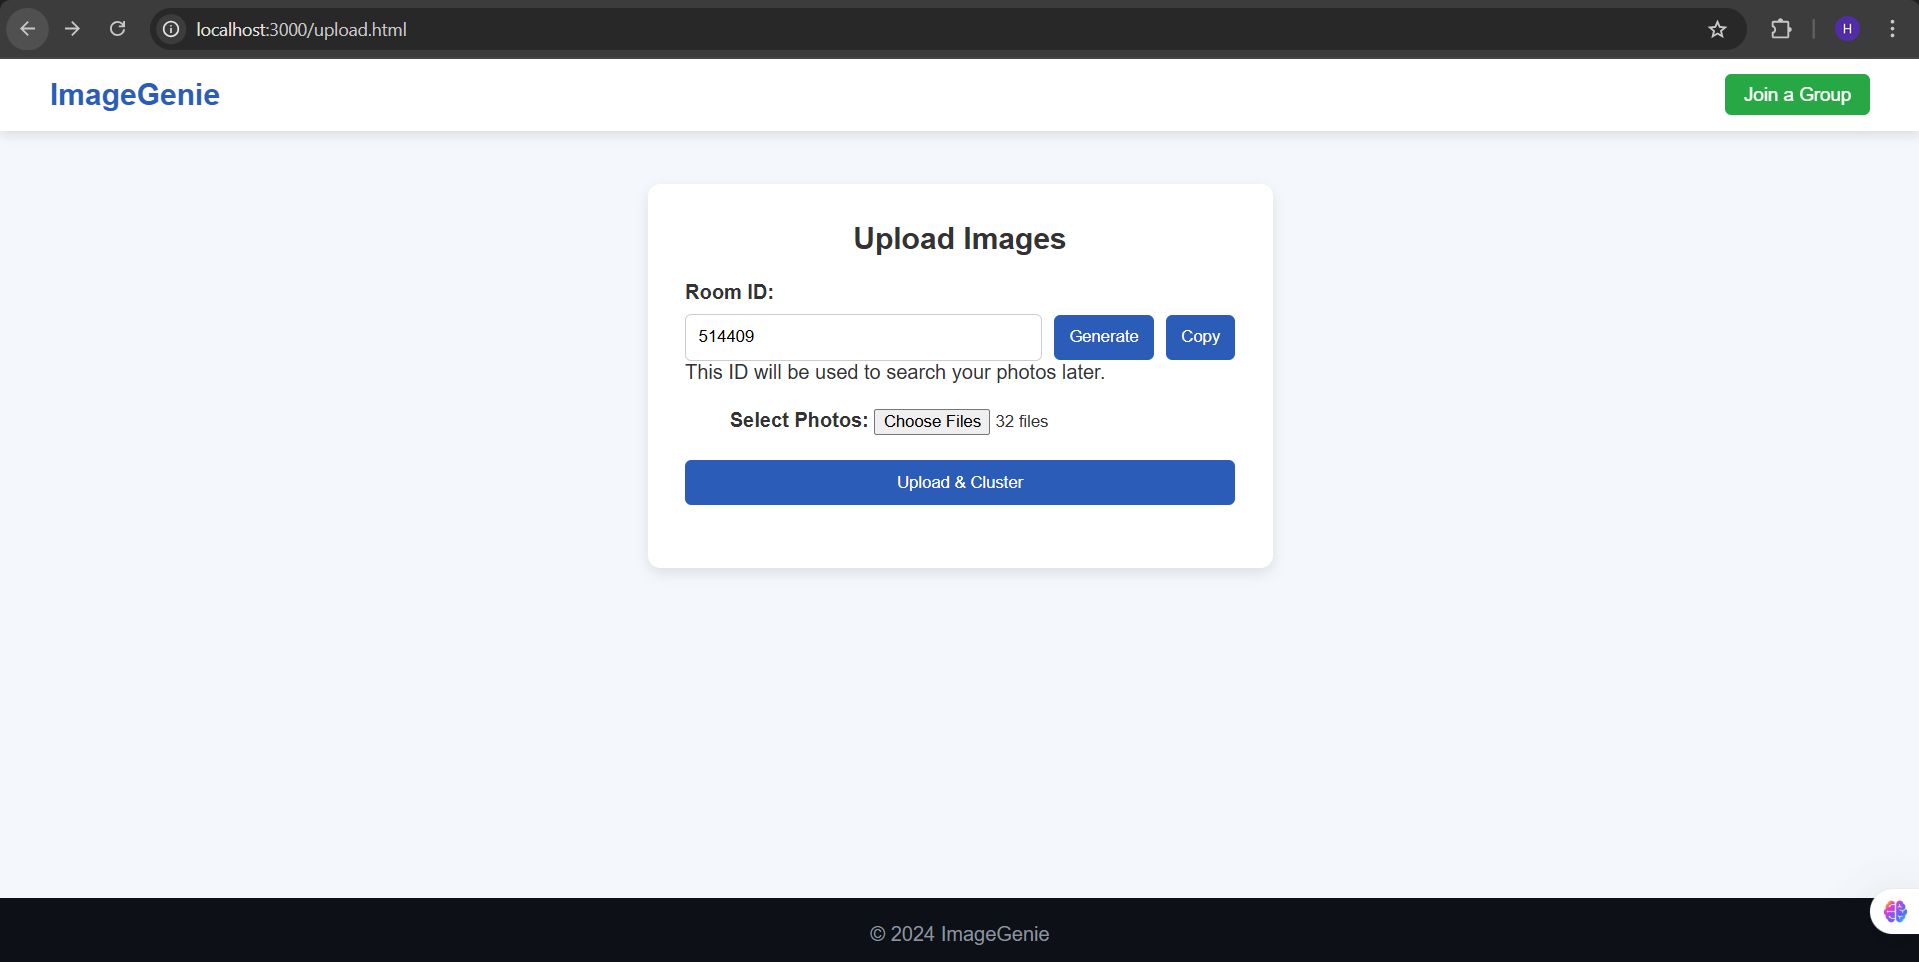
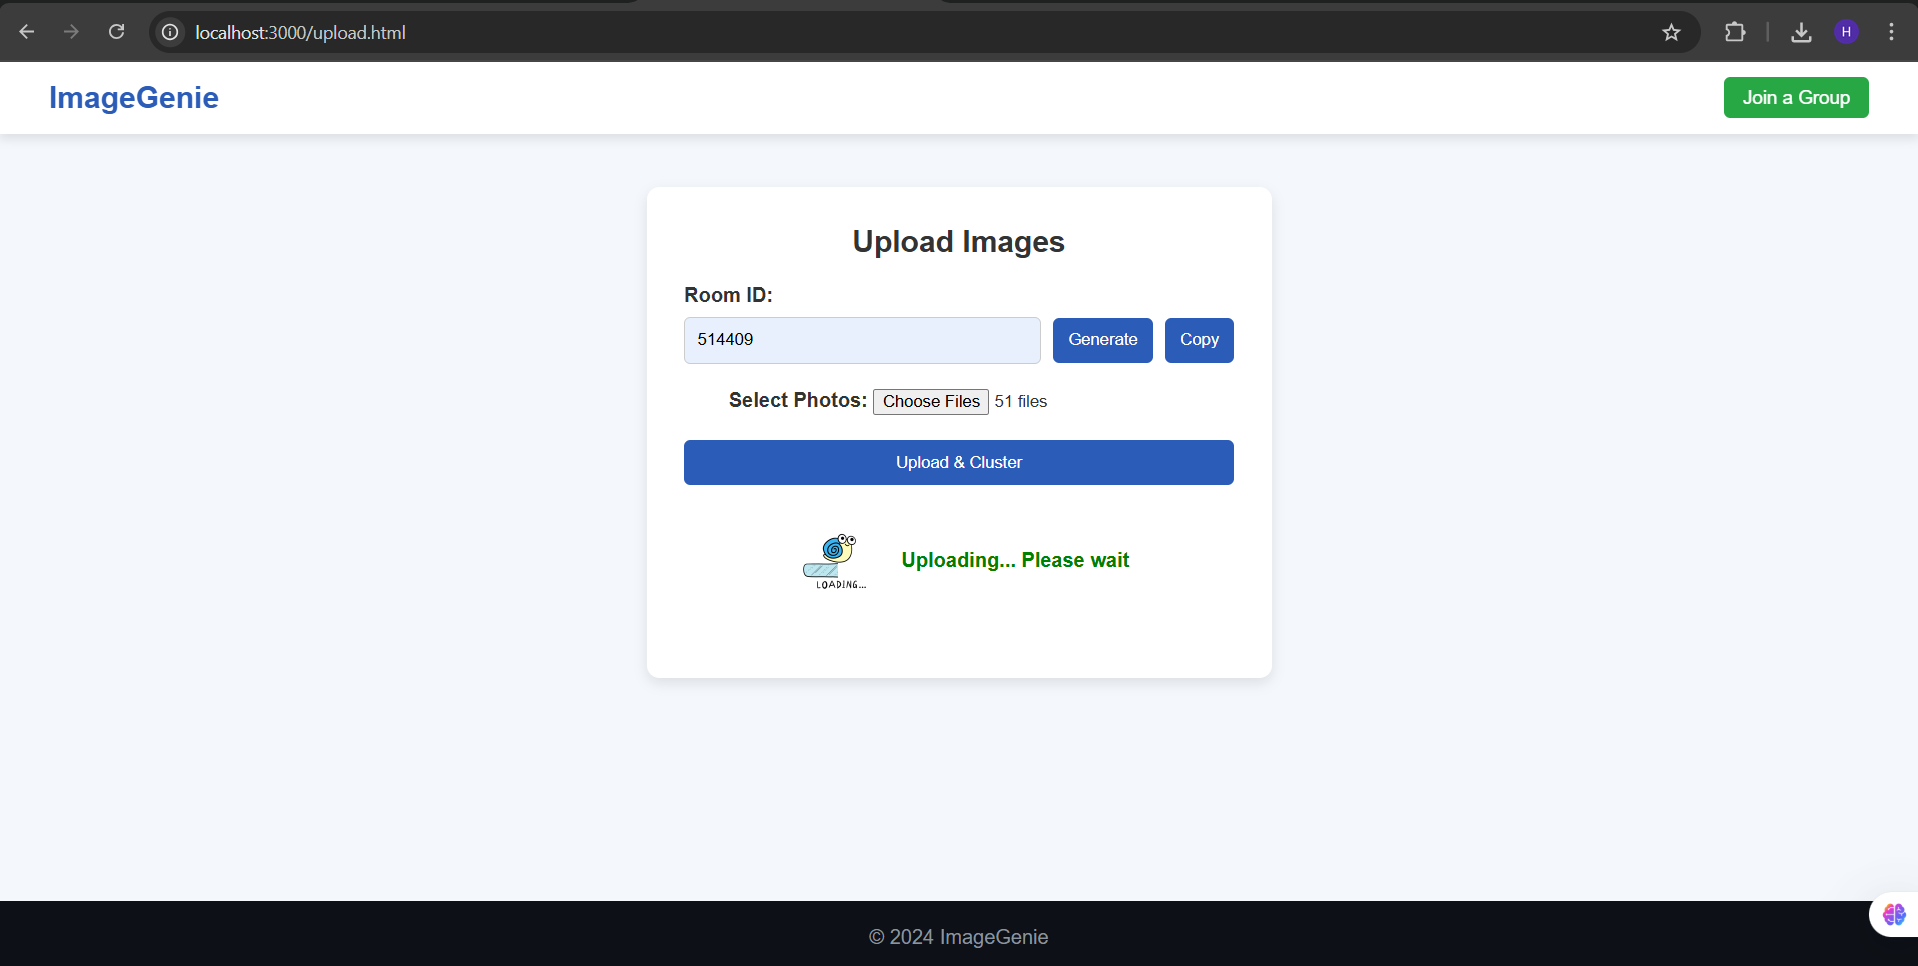
search phase optimize

diff --git a/public/upload.html b/public/upload.html
@@ -10,7 +10,7 @@
 <div class="navbar">
     <a href="index.html" class="navbar-logo">ImageGenie</a>
         <div class="navbar-buttons">
-            <a href="join-group.html" class="join-group">Join a Group</a>
+            <a href="search.html" class="join-group">Join a Group</a>
         </div>
 </div>
 
@@ -26,7 +26,6 @@
                 <button type="button" id="generateBtn">Generate</button>
                 <button type="button" id="copyBtn">Copy</button>
             </div>
-            <p class="small-text">This ID will be used to search your photos later.</p>
         </div>
 
         <!-- Upload Photos -->
@@ -35,6 +34,11 @@
 
         <button type="submit" class="upload-btn">Upload & Cluster</button>
     </form>
+
+    <div id="loader">
+        <img src="photo/loader.gif" alt="Processing...">
+        <p>Uploading... Please wait</p>
+    </div>
 
     <p id="statusMessage" style="margin-top:20px; color:green;"></p>
 </div>
@@ -55,7 +59,6 @@
         const roomInput = document.getElementById("roomId");
         roomInput.select();
         navigator.clipboard.writeText(roomInput.value);
-        alert("Room ID copied: " + roomInput.value);
     });
 
     // Handle form submission with fetch
@@ -64,6 +67,13 @@
 
         const form = document.getElementById("uploadForm");
         const formData = new FormData(form);
+        const loader = document.getElementById("loader");
+        const status = document.getElementById("statusMessage");
+
+        // Show loader
+        loader.style.display = "inline-flex";
+        status.innerText = "";
+        status.style.color = "green";
 
         try {
             const response = await fetch('/upload', {
@@ -71,18 +81,23 @@
                 body: formData
             });
 
+            // Hide loader
+            loader.style.display = "none";
+
             if (response.ok) {
-                document.getElementById("statusMessage").innerText = "✅ Upload & Clustering Successful!";
-                form.reset(); // reset form fields
+                status.style.color = "green";
+                status.innerText = "✅ Upload & Clustering Successful!";
+                form.reset();
                 document.getElementById("roomId").value = "";
             } else {
                 const text = await response.text();
-                document.getElementById("statusMessage").innerText = "❌ Error: " + text;
-                document.getElementById("statusMessage").style.color = "red";
+                status.style.color = "red";
+                status.innerText = "❌ Error: " + text;
             }
         } catch (err) {
-            document.getElementById("statusMessage").innerText = "❌ Network Error!";
-            document.getElementById("statusMessage").style.color = "red";
+            loader.style.display = "none";
+            status.style.color = "red";
+            status.innerText = "❌ Network Error!";
             console.error(err);
         }
     });

diff --git a/app.js b/app.js
@@ -12,8 +12,7 @@ app.use('/clusters', express.static(path.join(__dirname, 'clusters')));
 app.use(express.json());
 app.use(express.urlencoded({ extended: true }));
 
-
-let roomIds = new Set(["799316"]);
+let roomIds = new Set(["777795"]);
 
 // Ensure upload folder exists
 const uploadDir = path.join(__dirname, 'uploads/all_photos');
@@ -190,6 +189,5 @@ app.post('/check-room', (req, res) => {
       res.json({ exists: false });
   }
 });
-
 
 app.listen(PORT, () => console.log(`🚀 Server running at http://localhost:${PORT}`));

diff --git a/public/style3.css b/public/style3.css
@@ -111,6 +111,25 @@ input[type="text"] {
     border-radius: 5px;
 }
 
+#loader {
+    display: none;
+    margin-top: 20px;
+     align-items:center;
+}
+
+#loader img{
+    width: 80px;
+    height: 80px;
+    margin-right: 10px;
+}
+
+#loader p{
+    color:green;
+    margin:0;
+    font-weight: bold;
+}
+
+
 button {
     padding: 10px 12px;
     background-color: #2b5cb8;

diff --git a/cluster_logic.py b/cluster_logic.py
@@ -60,6 +60,7 @@ if mode != 'search':
     face_embeddings = []
     image_face_map = []
 
+    # Step 1: Extract faces and embeddings from all images
     for filename in os.listdir(all_photos_path):
         path = os.path.join(all_photos_path, filename)
         faces = extract_face(path)
@@ -79,6 +80,8 @@ if mode != 'search':
     clt.fit(face_embeddings)
     labels = clt.labels_
 
+
+    cluster_embeddings = {}  # to store embeddings per cluster
     for idx, label in enumerate(labels):
         folder = os.path.join(room_cluster_path, f'cluster_{label}')
         os.makedirs(folder, exist_ok=True)
@@ -86,6 +89,18 @@ if mode != 'search':
         src_path = os.path.join(all_photos_path, original_name)
         dst_path = os.path.join(folder, original_name)
         shutil.copy(src_path, dst_path)
+
+        # Store embeddings for centroid calculation
+        if label not in cluster_embeddings:
+            cluster_embeddings[label] = []
+        cluster_embeddings[label].append(face_embeddings[idx])
+
+    # Step 4: Compute centroid of each cluster and save as .npy
+    for label, embeddings in cluster_embeddings.items():
+        centroid = np.mean(embeddings, axis=0)
+        centroid_path = os.path.join(room_cluster_path, f'cluster_{label}', 'centroid.npy')
+        np.save(centroid_path, centroid)
+        print(f"[INFO] Saved centroid for cluster_{label} at {centroid_path}")
 
     print(f"[SUCCESS] Clustering complete. Check clusters/{roomId}/ folder.")
 
@@ -123,17 +138,26 @@ elif mode == 'search':
     cluster_centers = []
     cluster_names = []
 
+    # previous method of calculating cluster centers by recomputing mean for each cluster folder
+    # for folder in cluster_dirs:
+    #     folder_path = os.path.join(cluster_path, folder)
+    #     embeddings = []
+    #     for img_name in os.listdir(folder_path):
+    #         img_path = os.path.join(folder_path, img_name)
+    #         face_list = extract_face(img_path)
+    #         if face_list:
+    #             embeddings.append(face_list[0]["encoding"])
+    #     if embeddings:
+    #         cluster_mean = np.mean(embeddings, axis=0)
+    #         cluster_centers.append(cluster_mean)
+    #         cluster_names.append(folder)
+
+    # Step 2: Load precomputed centroids for each cluster
     for folder in cluster_dirs:
-        folder_path = os.path.join(cluster_path, folder)
-        embeddings = []
-        for img_name in os.listdir(folder_path):
-            img_path = os.path.join(folder_path, img_name)
-            face_list = extract_face(img_path)
-            if face_list:
-                embeddings.append(face_list[0]["encoding"])
-        if embeddings:
-            cluster_mean = np.mean(embeddings, axis=0)
-            cluster_centers.append(cluster_mean)
+        centroid_file = os.path.join(cluster_path, folder, 'centroid.npy')
+        if os.path.exists(centroid_file):
+            centroid = np.load(centroid_file)
+            cluster_centers.append(centroid)
             cluster_names.append(folder)
 
     if not cluster_centers:
@@ -147,11 +171,15 @@ elif mode == 'search':
 
     result = {
         "cluster": match_folder,
-        "images": os.listdir(match_folder_path)
+        "images": [f for f in os.listdir(match_folder_path) if f.lower().endswith(('.jpg', '.jpeg', '.png', '.webp'))]
+
     }
     print(json.dumps(result))  # ✅ Only JSON output
 
-
+    # Delete all photos in search to get ready for next search
+    for f in os.listdir(search_photo_path):
+        os.remove(os.path.join(search_photo_path, f))
+    print("[INFO] uploads/search_photo cleared.", file=sys.stderr)
 
 else:
     print("[ERROR] Invalid mode. Use 'cluster' or 'search'.")
